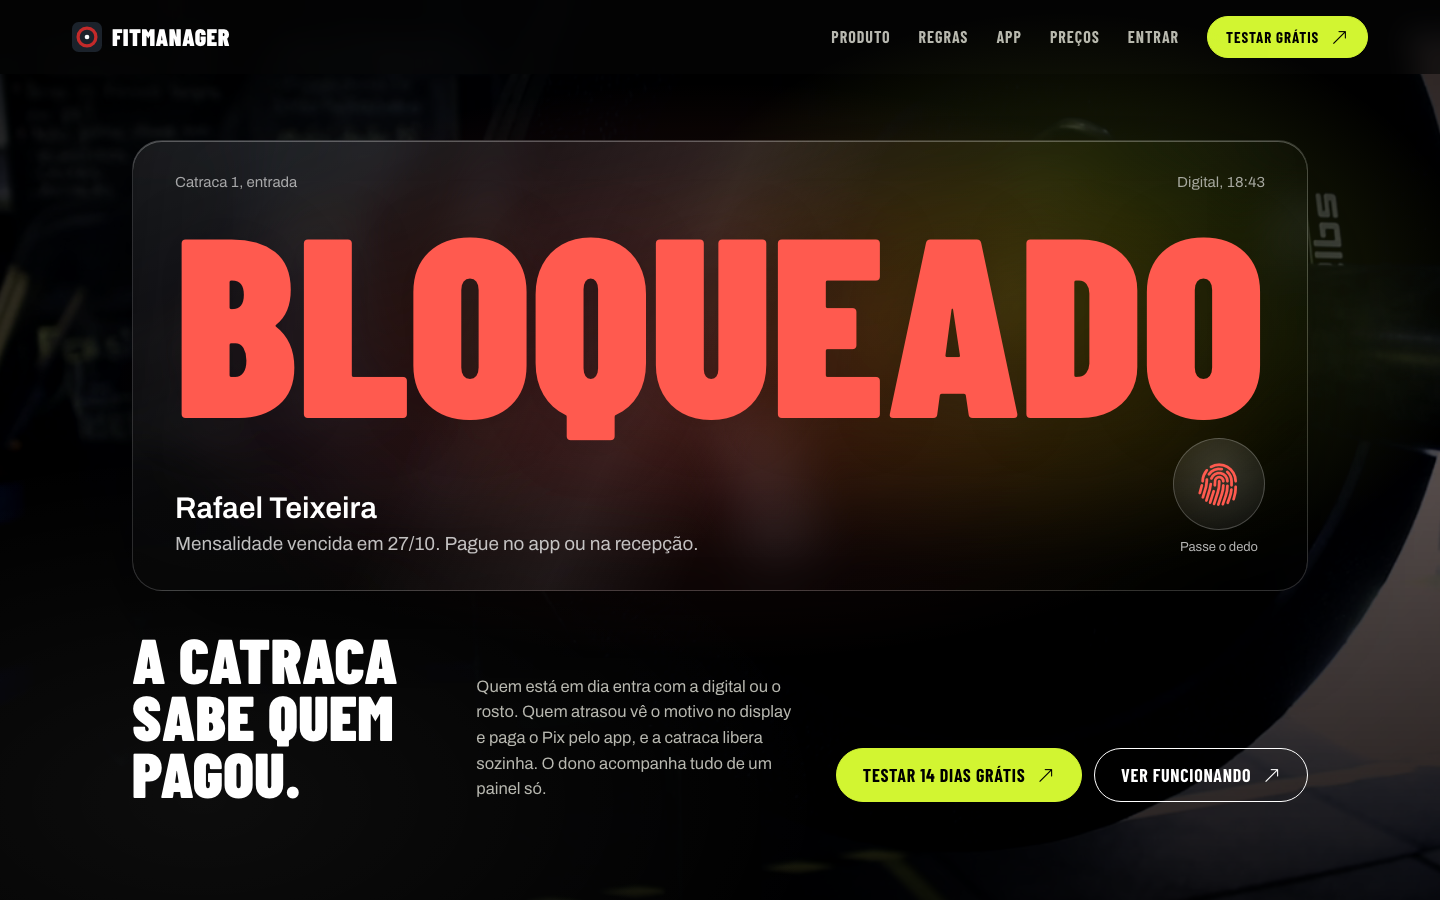
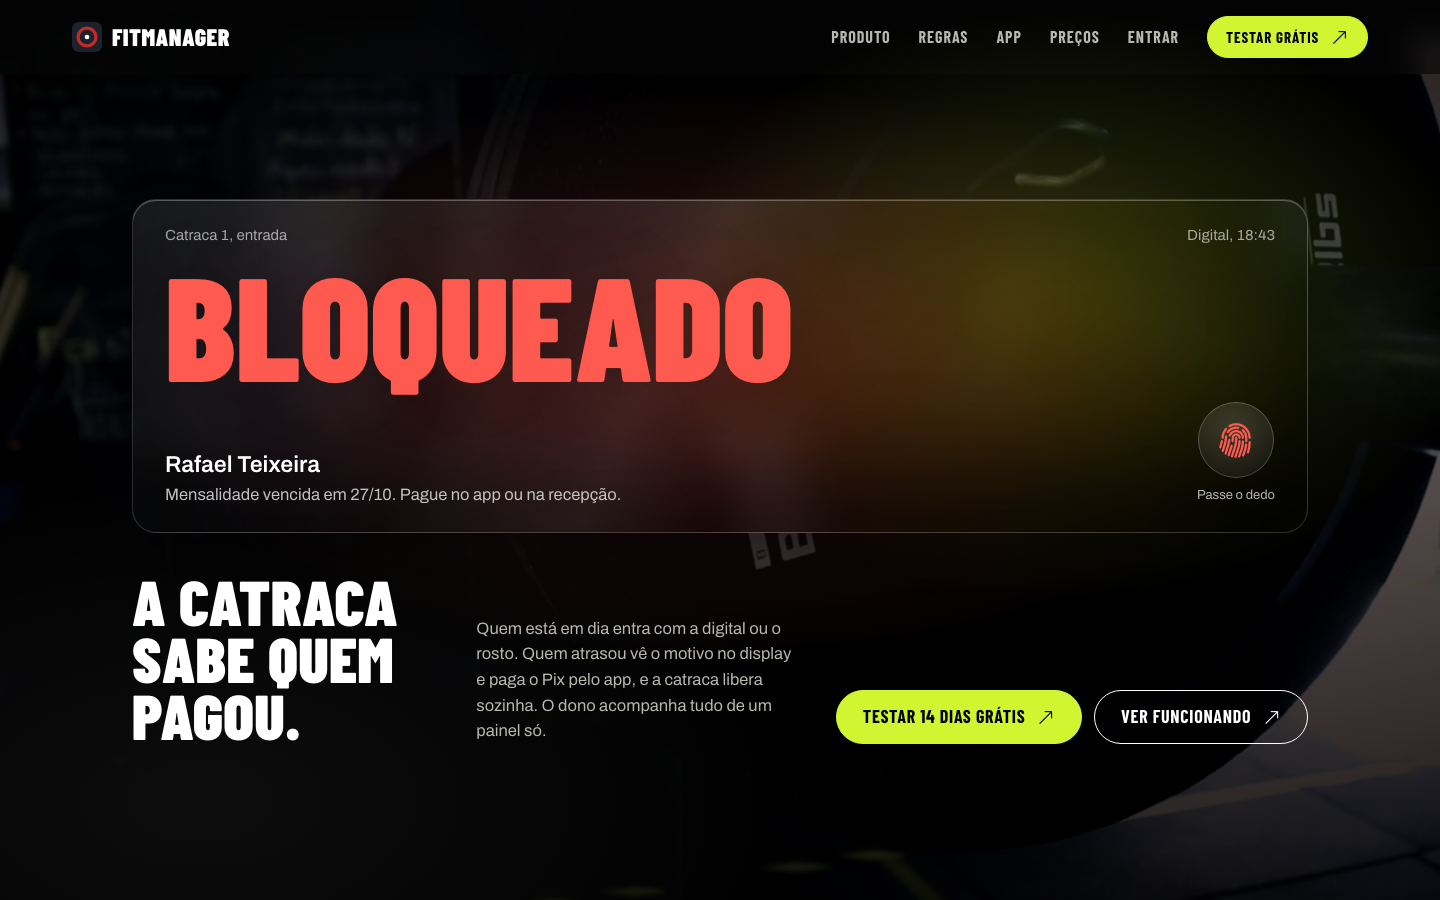
Hero: display da catraca menor e alinhado à faixa de baixo

diff --git a/web/src/site/site.css b/web/src/site/site.css
@@ -411,8 +411,8 @@
 .fz .hd-inner { position: relative; z-index: 1; width: 100%; display: grid; gap: clamp(24px, 4.5vh, 48px); }
 
 .fz .hd-screen {
-  position: relative; overflow: hidden; border-radius: 30px;
-  padding: clamp(16px, 2.2vw, 30px) clamp(18px, 3vw, 42px) clamp(18px, 2.4vw, 32px);
+  position: relative; overflow: hidden; border-radius: 24px;
+  padding: clamp(14px, 1.8vw, 24px) clamp(18px, 2.4vw, 32px) clamp(16px, 2vw, 26px);
   background: linear-gradient(160deg, rgba(255,255,255,0.11), rgba(255,255,255,0.03) 42%, rgba(0,0,0,0.3));
   backdrop-filter: blur(24px) saturate(1.4); -webkit-backdrop-filter: blur(24px) saturate(1.4);
   border: 1px solid rgba(255,255,255,0.16);
@@ -421,16 +421,16 @@
 }
 .fz .hd-screen::before { content: ''; position: absolute; inset: 0; pointer-events: none; background: linear-gradient(115deg, transparent 30%, rgba(255,255,255,0.07) 45%, transparent 55%); }
 .fz .hd-top { position: relative; display: flex; justify-content: space-between; gap: 16px; font-size: clamp(13px, 1.1vw, 15px); color: rgba(255,255,255,0.62); font-variant-numeric: tabular-nums; }
-.fz .hd-word-box { position: relative; margin: clamp(6px, 1.2vh, 14px) 0 0; }
-.fz .hd-word { display: block; font-family: var(--display); font-weight: 900; text-transform: uppercase; font-size: 17vw; line-height: 0.8; letter-spacing: -0.005em; white-space: nowrap; color: var(--st); text-shadow: 0 0 60px rgba(0,0,0,0.25); transition: color 280ms ease; padding-top: 0.04em; }
+.fz .hd-word-box { position: relative; margin: clamp(8px, 1.4vh, 16px) 0 0; }
+.fz .hd-word { display: block; font-family: var(--display); font-weight: 900; text-transform: uppercase; font-size: 9vw; line-height: 0.8; letter-spacing: -0.005em; white-space: nowrap; color: var(--st); text-shadow: 0 0 60px rgba(0,0,0,0.25); transition: color 280ms ease; padding-top: 0.04em; }
 .fz .hd-word.hd-probe { position: absolute; left: 0; top: 0; visibility: hidden; pointer-events: none; }
 .fz .hd-bottom { position: relative; display: flex; justify-content: space-between; align-items: flex-end; gap: 20px; margin-top: clamp(12px, 2.2vh, 26px); }
 .fz .hd-who { min-width: 0; }
-.fz .hd-who b { display: block; font-weight: 600; font-size: clamp(19px, 2.1vw, 30px); line-height: 1.15; }
-.fz .hd-who span { display: block; margin-top: 6px; color: rgba(255,255,255,0.74); font-size: clamp(15px, 1.35vw, 19px); line-height: 1.4; animation: fade-up 500ms ease both; }
+.fz .hd-who b { display: block; font-weight: 600; font-size: clamp(18px, 1.6vw, 24px); line-height: 1.15; }
+.fz .hd-who span { display: block; margin-top: 4px; color: rgba(255,255,255,0.74); font-size: clamp(14.5px, 1.15vw, 17px); line-height: 1.4; animation: fade-up 500ms ease both; }
 
 .fz .hd-sensor { flex: none; display: flex; flex-direction: column; align-items: center; gap: 8px; border: 0; background: transparent; color: var(--fg); cursor: pointer; padding: 0; font: inherit; }
-.fz .hd-sensor i { position: relative; overflow: hidden; width: clamp(64px, 7vw, 92px); aspect-ratio: 1; border-radius: 50%; display: grid; place-items: center; font-size: clamp(30px, 3.4vw, 44px); color: var(--st); background: radial-gradient(circle at 50% 35%, rgba(255,255,255,0.16), rgba(255,255,255,0.03)); box-shadow: inset 0 0 0 1px rgba(255,255,255,0.22), 0 0 0 0 rgba(255,255,255,0); transition: color 280ms ease, transform 200ms ease; }
+.fz .hd-sensor i { position: relative; overflow: hidden; width: clamp(58px, 5.4vw, 76px); aspect-ratio: 1; border-radius: 50%; display: grid; place-items: center; font-size: clamp(28px, 2.6vw, 36px); color: var(--st); background: radial-gradient(circle at 50% 35%, rgba(255,255,255,0.16), rgba(255,255,255,0.03)); box-shadow: inset 0 0 0 1px rgba(255,255,255,0.22), 0 0 0 0 rgba(255,255,255,0); transition: color 280ms ease, transform 200ms ease; }
 .fz .hd-sensor i::after { content: ''; position: absolute; left: 12%; right: 12%; height: 2px; top: 0; background: var(--st); box-shadow: 0 0 14px var(--st); opacity: 0; }
 .fz .hd-sensor small { font-size: 13px; color: rgba(255,255,255,0.7); }
 .fz .hd-sensor:hover i { transform: scale(1.05); }

diff --git a/web/src/site/Hero.jsx b/web/src/site/Hero.jsx
@@ -50,7 +50,9 @@ function useFitText(ref, sample) {
     const fit = () => {
       probe.style.fontSize = '100px';
       const w = probe.getBoundingClientRect().width;
-      if (w) setSize(Math.min(260, Math.floor((el.clientWidth / w) * 100)));
+      // No desktop a palavra ocupa pouco mais da metade do painel; no celular, quase toda a largura.
+      const share = el.clientWidth > 700 ? 0.56 : 0.86;
+      if (w) setSize(Math.min(150, Math.floor(((el.clientWidth * share) / w) * 100)));
     };
     fit();
     const ro = new ResizeObserver(fit);
